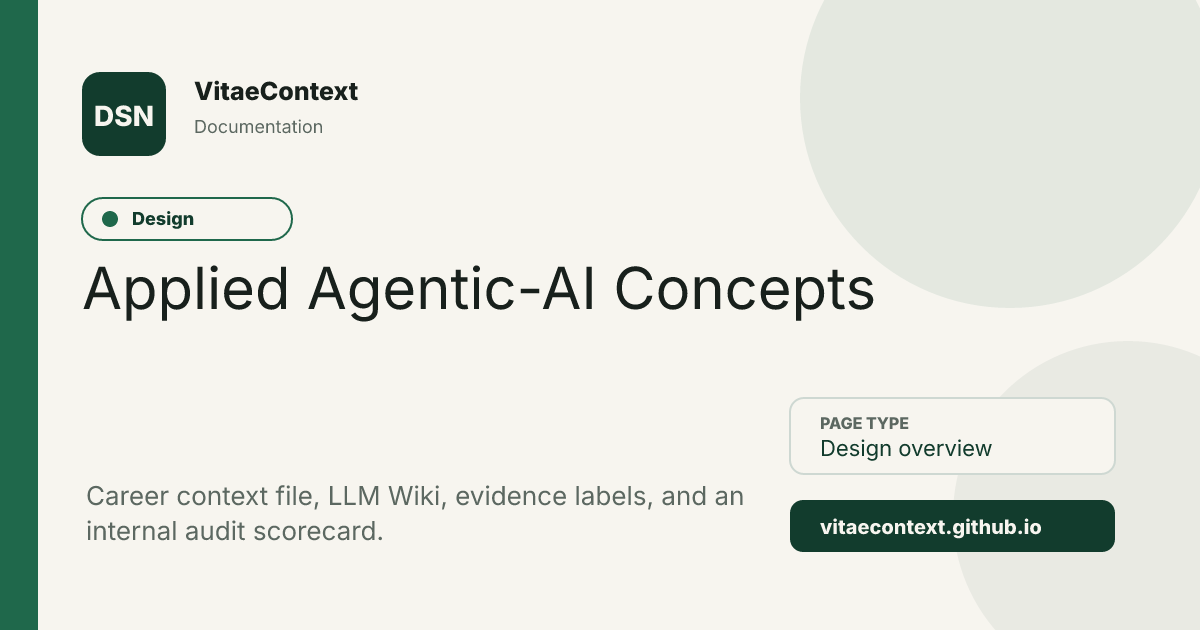
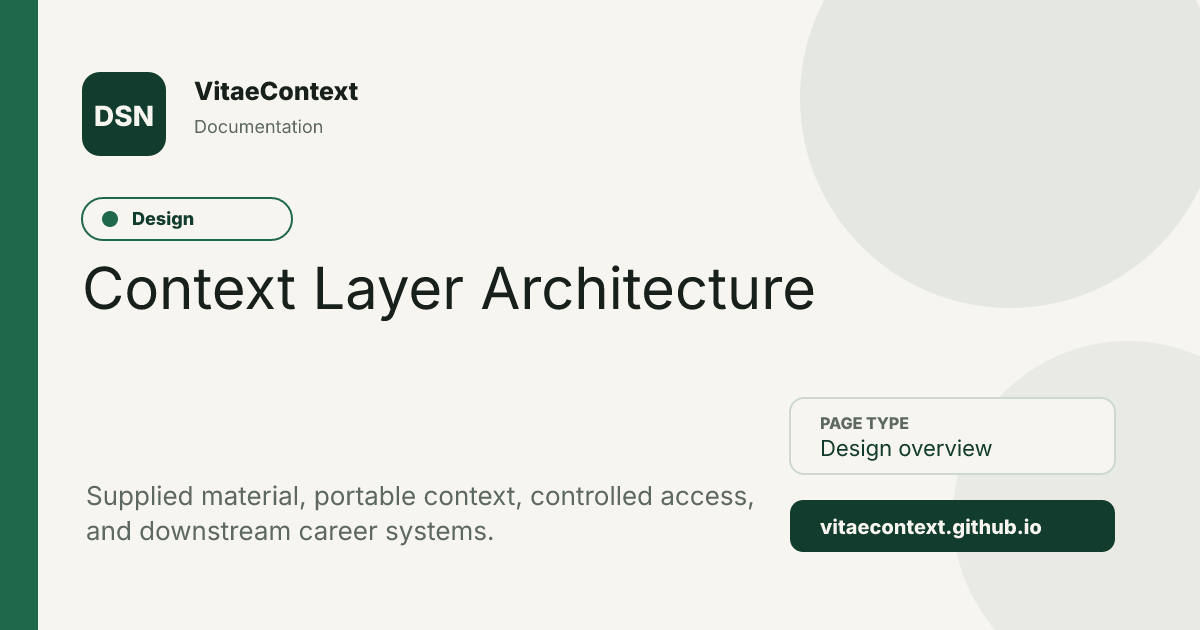
chore(site): align v2.3 metadata and validation

Changed region(s): [[0.0617, 0.4222, 0.74, 0.5127], [0.0617, 0.754, 0.6475, 0.8746]]

diff --git a/src/pages/sitemap.xml.ts b/src/pages/sitemap.xml.ts
@@ -1,4 +1,3 @@
-import { getCollection } from "astro:content";
 import { publicRoutes } from "@data/navigation";
 import { skills } from "@data/skills";
 import { site } from "@data/site-config";
@@ -9,14 +8,7 @@ const skillRoutes = skills.map((skill) => ({
 }));
 
 export async function GET() {
-  const playbooks = await getCollection("playbooks");
-  const playbookRoutes = playbooks.map((entry) => ({
-    path: `/playbooks/${entry.id}/`,
-    label: entry.data.title,
-    lastmod: entry.data.last_updated,
-  }));
-
-  const routes = [...publicRoutes, ...skillRoutes, ...playbookRoutes];
+  const routes = [...publicRoutes, ...skillRoutes];
   const urls = routes
     .map((route) => {
       const loc = new URL(route.path, site.url).toString();

diff --git a/AGENTS.md b/AGENTS.md
@@ -31,7 +31,7 @@ Read the product repository before changing product claims:
 - `../vitaecontext/README.md`
 - `../vitaecontext/DESIGN.md`
 - `../vitaecontext/.assets/docs/architecture-map.md`
-- relevant files under `../vitaecontext/.skills/`, `../vitaecontext/vitaegraph/`, and `../vitaecontext/hub/`
+- relevant files under `../vitaecontext/skills/`, `../vitaecontext/vitaegraph/`, and `../vitaecontext/hub/`
 
 The product repository is authoritative for runtime behavior, commands, supported providers, skill names, VitaeGraph semantics, and install paths. Do not edit it from this repository. Website content is a human-readable mirror and must not invent behavior.
 
@@ -40,7 +40,7 @@ The product repository is authoritative for runtime behavior, commands, supporte
 - Framework: Astro 7 with `@astrojs/react`.
 - Output: static files for GitHub Pages.
 - React/Three: only for the interactive VitaeGraph 3D sample.
-- Content: Astro collection under `src/content/playbooks/`.
+- Content: concise product pages under `src/pages/`; the retired platform playbook collection is no longer populated.
 - Site URL: `https://vitaecontext.github.io`.
 - Build output: `dist/`; never edit it directly.
 
@@ -62,11 +62,11 @@ Run `npm run og:generate` only when OG copy, colors, layout, or image generation
 - `src/pages/index.astro`: homepage composition only.
 - `src/pages/vitaegraph.astro`: VitaeGraph composition only.
 - `src/pages/docs/`: documentation hub, workflow, installation, CLI, and context example.
-- `src/pages/skills/`: installable skill catalog and dynamic skill detail route.
-- `src/pages/playbooks/`: human-readable guide catalog and dynamic guide detail route.
+- `src/pages/skills/`: compact reference for the three runtime context skills and their detail routes.
+- `src/pages/playbooks/`: concise human-readable Context Builder guide.
 - `src/pages/providers.astro`: provider installation reference.
 - `src/pages/design.astro`: project architecture explanation.
-- `src/pages/profile-optimization.astro`: retained broad career-workflow route; keep it simple and non-duplicative.
+- `src/pages/profile-optimization.astro`: retained compatibility route explaining that career workflows are downstream of VitaeContext.
 - `src/pages/faq.astro`, `src/pages/changelog.astro`, `src/pages/contact.astro`, `src/pages/404.astro`: project information routes.
 - `src/pages/sitemap.xml.ts`: generated sitemap from public routes, skills, and playbook collection entries.
 
@@ -74,11 +74,11 @@ Run `npm run og:generate` only when OG copy, colors, layout, or image generation
 
 Feature folders keep agent context narrow:
 
-- `src/components/landing/`: homepage narrative and visuals.
+- `src/pages/index.astro`: homepage narrative and context-layer visual system.
 - `src/components/vitaegraph/`: green sub-brand, graph workspace, records, relationships, retrieval, and start sections.
 - `src/components/docs/`: documentation-specific sections.
 - `src/components/skills/`: installable skill catalog and detail content.
-- `src/components/guides/`: human-readable guide catalog and reference shell.
+- `src/components/guides/`: human-readable guide catalog.
 - `src/components/providers/`: provider cards and installation surfaces.
 - `src/components/project/`: design/project architecture sections.
 - `src/components/shared/`: reusable `PageHero`, `SectionIntro`, and `InfoCard` primitives.
@@ -91,7 +91,7 @@ Page files should compose components. Put feature markup in its feature folder i
 
 - `src/data/site-config.ts`: site identity, URLs, authors, package version, disclaimer, and default image.
 - `src/data/navigation.ts`: primary navigation, footer groups, public routes, and Claude Code marketplace commands.
-- `src/data/skills.ts`: installable skill catalog and skill-specific summaries, methods, outputs, and use cases.
+- `src/data/skills.ts`: the root router, Context Builder, and VitaeGraph runtime references.
 - `src/data/providers.ts`: provider IDs, install commands, paths, invocation examples, and provider notes.
 - `src/data/metadata.ts`: canonical URL helpers and JSON-LD builders.
 - `src/data/sampleContext.ts`: fictional public context example only.
@@ -117,18 +117,15 @@ Do not append historical redesign CSS to `global.css`. If a feature needs new st
 
 Primary navigation is intentionally small:
 
-- Skills: installable runtime modules.
-- Guides: human-readable methods with no install required.
-- Docs: workflow, installation, CLI, and project references.
-- VitaeGraph: related green product module.
+- How it works: the context-first workflow and system boundary.
+- Get started: installation and first context setup.
+- Docs: workflow, MCP, CLI, provider, and project references.
+- VitaeGraph: optional deeper structured-record layer.
 - GitHub: source repository.
 
-Providers remain a documentation route, not a primary navigation item. Preserve existing routes and canonical paths unless an explicit migration is requested.
+Providers, skills, and the Context Builder guide remain documentation routes, not primary navigation items. Preserve existing routes where they help old links resolve, but do not restore the retired platform-module catalog.
 
-Skills and Guides are different surfaces:
-
-- A skill packages runtime instructions, references, and maintained knowledge for a supported agent.
-- A guide explains the method for a human reader.
+VitaeContext contains only three runtime skills: `vitaecontext`, `vitaecontext-build`, and `vitaecontext-vitaegraph`. CV, LinkedIn, GitHub, portfolio, and X adaptation belong to downstream tools and must not be presented as current VitaeContext modules.
 
 Do not expose keyword/search-intent lists as visible page copy.
 
@@ -174,7 +171,7 @@ Before finishing:
 
 1. Run `npm run build`.
 2. Run `git diff --check`.
-3. Check changed desktop and mobile routes, especially homepage, Docs, Skills, Guides, Providers, and VitaeGraph.
+3. Check changed desktop and mobile routes, especially homepage, How it works, Docs, Providers, and VitaeGraph.
 4. Confirm no horizontal overflow and readable H1 sizing.
 5. Confirm internal links resolve in `dist/` when routes or navigation change.
 6. Confirm product repository remains untouched.
